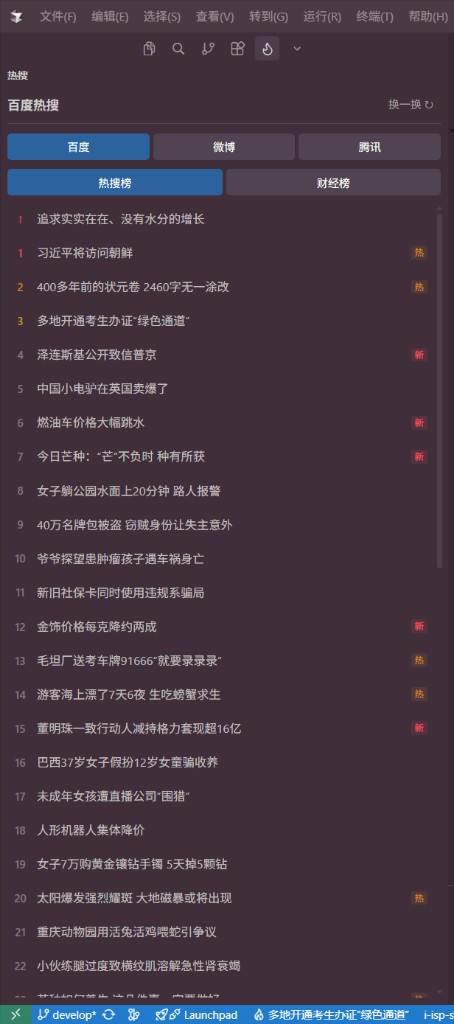
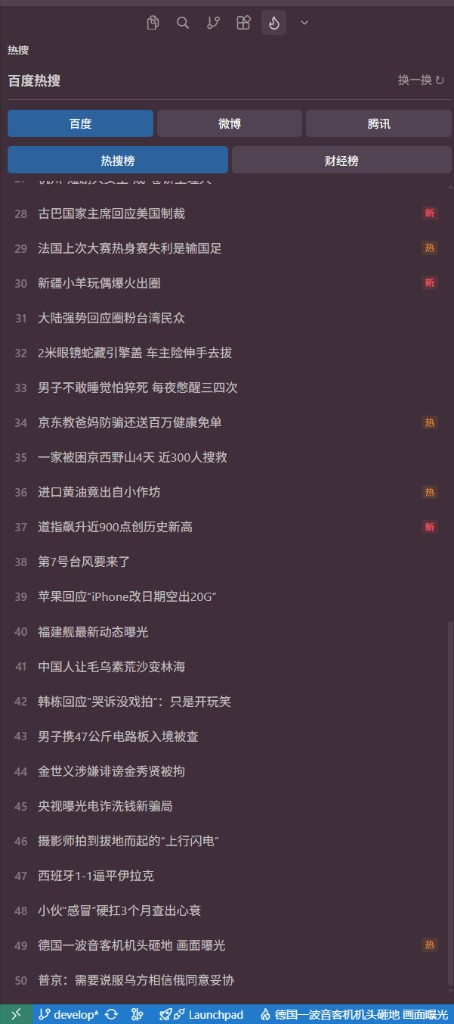
Expand README with dev guide and switch to non-commercial license

diff --git a/README.md b/README.md
@@ -4,14 +4,6 @@ Cursor / VS Code 侧边栏看百度、微博、腾讯热搜，状态栏轮播百
 
 ![截图](docs/screenshot.png)
 
-## 安装
-
-```bash
-npm run package
-```
-
-Extensions → `...` → **Install from VSIX...** → 选生成的 `.vsix` → Reload Window
-
 ## 怎么用
 
 1. 左侧 Activity Bar 点 **🔥** 打开侧边栏
@@ -21,19 +13,60 @@ Extensions → `...` → **Install from VSIX...** → 选生成的 `.vsix` → R
 
 设置里搜 `hotSearch` 可改：打开方式（浏览器 / 内置）、轮播间隔。
 
-## 开发
+数据只在打开侧边栏或手动刷新时拉取，不会后台定时请求。
+
+## 调试
 
 ```bash
 npm install
-npm run watch   # 另开终端
-# F5 调试
+npm run watch    # 保持编译，另开终端跑着
 ```
 
-## 说明
+1. 用 Cursor 打开本项目
+2. 按 **F5**（或 Run → Start Debugging）
+3. 会弹出一个新的 **Extension Development Host** 窗口，扩展在这个窗口里生效
+4. 改 `src/` 代码 → 保存 → 新窗口里 **Reload Window** 看效果
 
-- 数据只在打开侧边栏或手动刷新时拉取，不会后台定时请求
-- 想改功能自己 fork 后用 AI 改就行，MIT 协议
+## 打包
+
+```bash
+npm run package
+```
+
+项目根目录会生成 `hot-search-x.x.x.vsix`。
+
+## 安装 .vsix
+
+**手动安装**
+
+Extensions 面板 → 右上角 `...` → **Install from VSIX...** → 选 `.vsix` → Reload Window
+
+**命令行安装（Cursor / VS Code 都行）**
+
+```bash
+cursor --install-extension hot-search-0.2.5.vsix --force
+# 或
+code --install-extension hot-search-0.2.5.vsix --force
+```
+
+装完 Reload Window。已有旧版时加 `--force` 覆盖。
+
+## 改功能
+
+代码在 `src/`，结构很简单：
+
+- `src/trend/` — 各平台数据抓取（百度 / 微博 / 腾讯）
+- `src/webview/` — 侧边栏 UI
+- `src/statusBar.ts` — 状态栏轮播
+- `src/extension.ts` — 入口
+
+想加平台、改样式、改逻辑：**fork 后用 AI 改就行**，把需求丢给 Cursor / Copilot，指到对应文件让它改。仅限个人非商用，详见下方 License。
 
 ## License
 
-MIT
+**个人免费使用，禁止商用。**
+
+- 可以：自用、fork、改代码、分享给朋友
+- 不可以：收费分发、打包进商业产品、上架售卖、任何盈利用途
+
+完整条款见 [LICENSE](LICENSE)。商用请联系作者 HummerBor 授权。